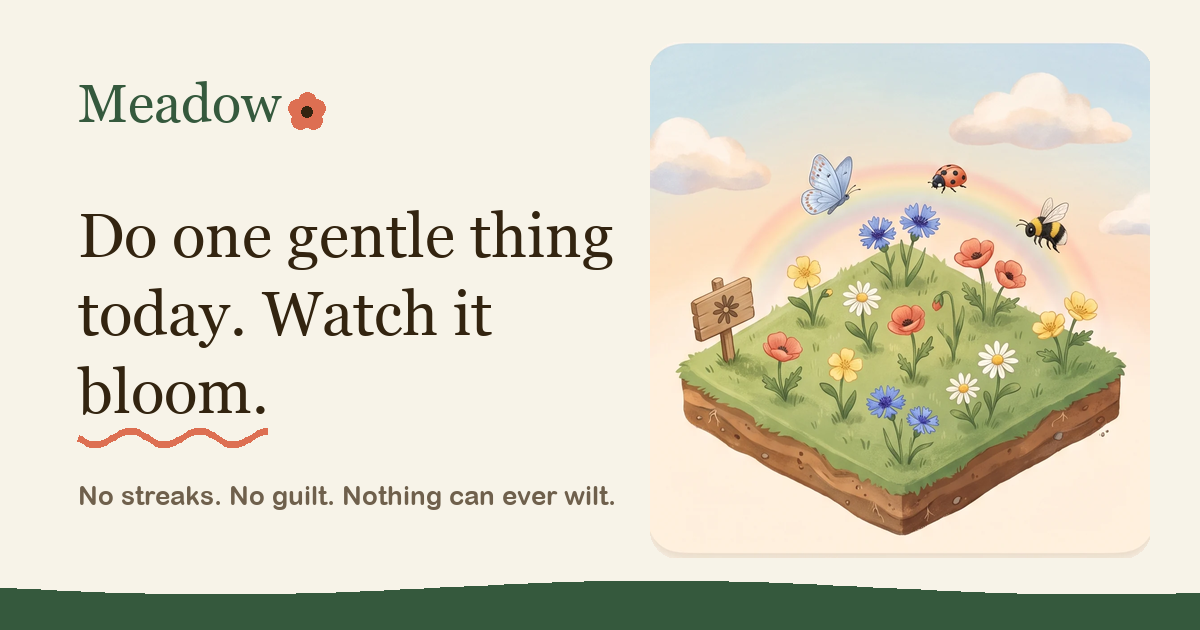
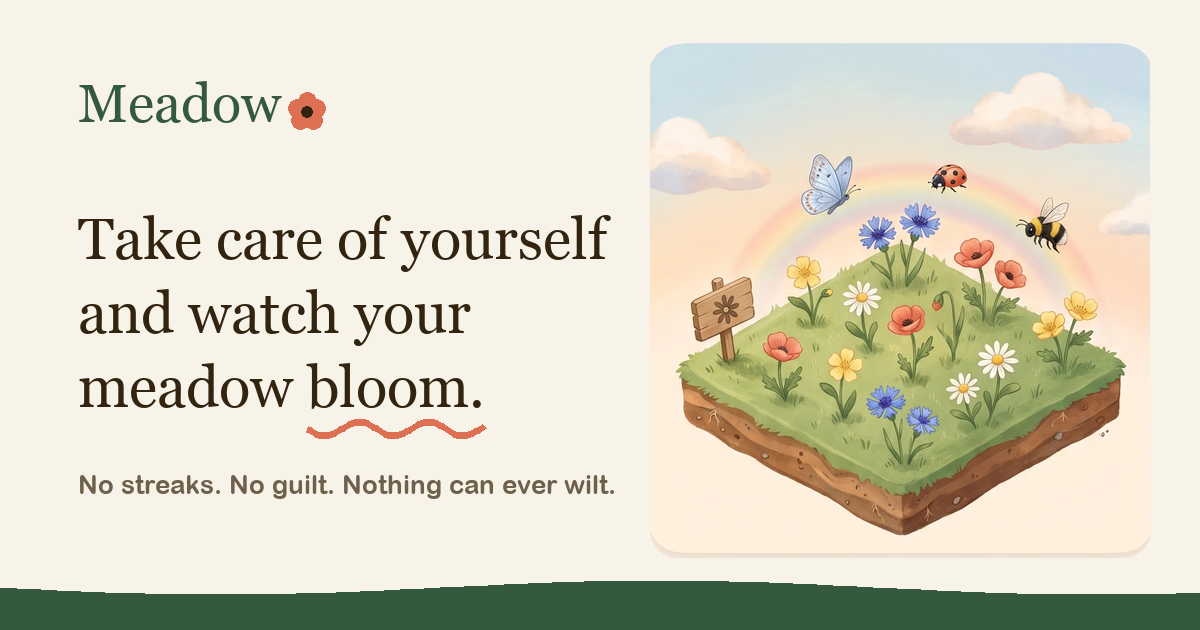
Update hero headline to 'Take care of yourself and watch your meadow bloom'
Regenerate OG image to match.

diff --git a/index.html b/index.html
@@ -340,7 +340,7 @@
   <div class="hero-grid">
     <div>
       <span class="kicker">for everyone who wants to build habits without the stress ✳</span>
-      <h1>Do one gentle thing today. Watch it <span class="u">bloom<svg viewBox="0 0 200 16" preserveAspectRatio="none" aria-hidden="true"><path d="M4 10 Q 28 3 54 9 T 104 9 T 152 8 T 196 7" fill="none" stroke="#dd6f52" stroke-width="5" stroke-linecap="round"/></svg></span>.</h1>
+      <h1>Take care of yourself and watch your meadow <span class="u">bloom<svg viewBox="0 0 200 16" preserveAspectRatio="none" aria-hidden="true"><path d="M4 10 Q 28 3 54 9 T 104 9 T 152 8 T 196 7" fill="none" stroke="#dd6f52" stroke-width="5" stroke-linecap="round"/></svg></span>.</h1>
       <p class="sub">Meadow turns whatever movement you can manage — a walk, a stretch, a slow dance round the kitchen — into a wildflower meadow that grows with you. No streaks. No guilt. Nothing can ever wilt.</p>
       <div class="hero-ctas">
         <a class="btn" href="#pricing">Plant Day 1 ✳</a>
